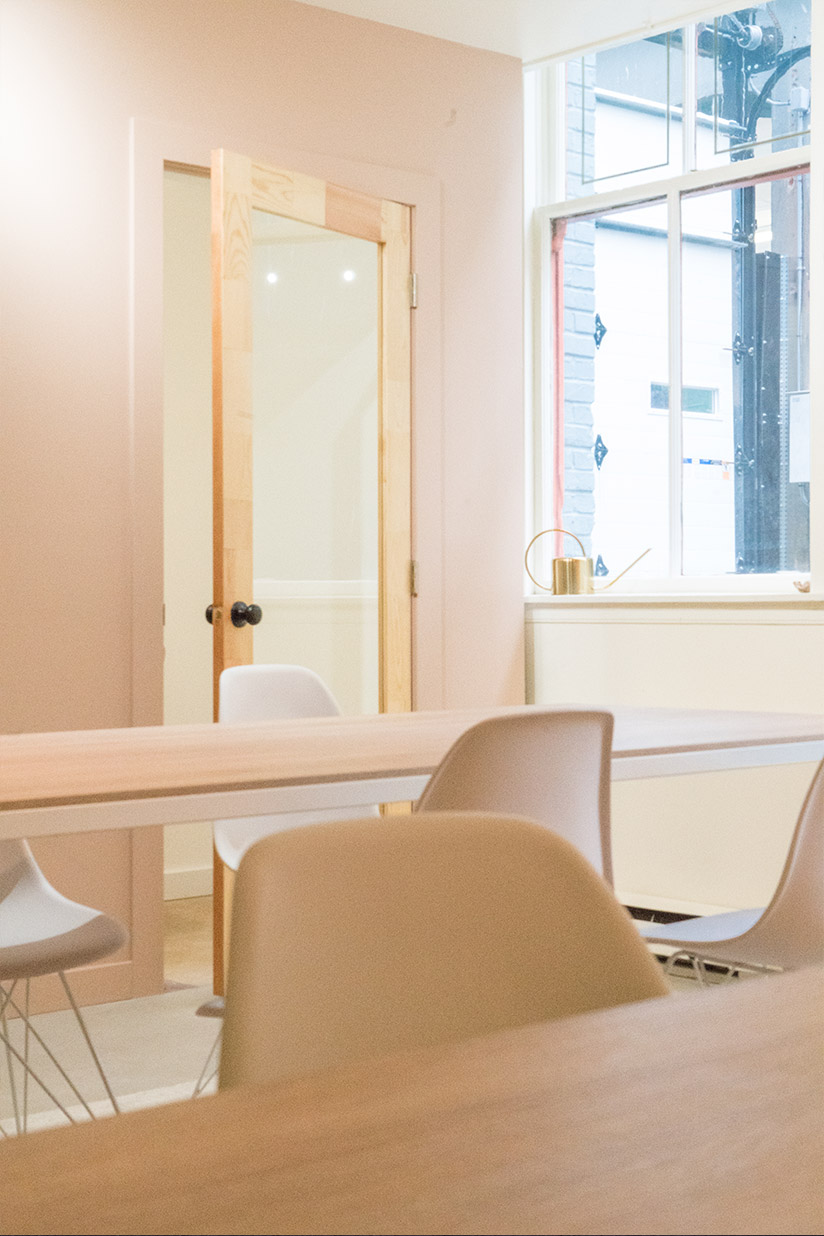
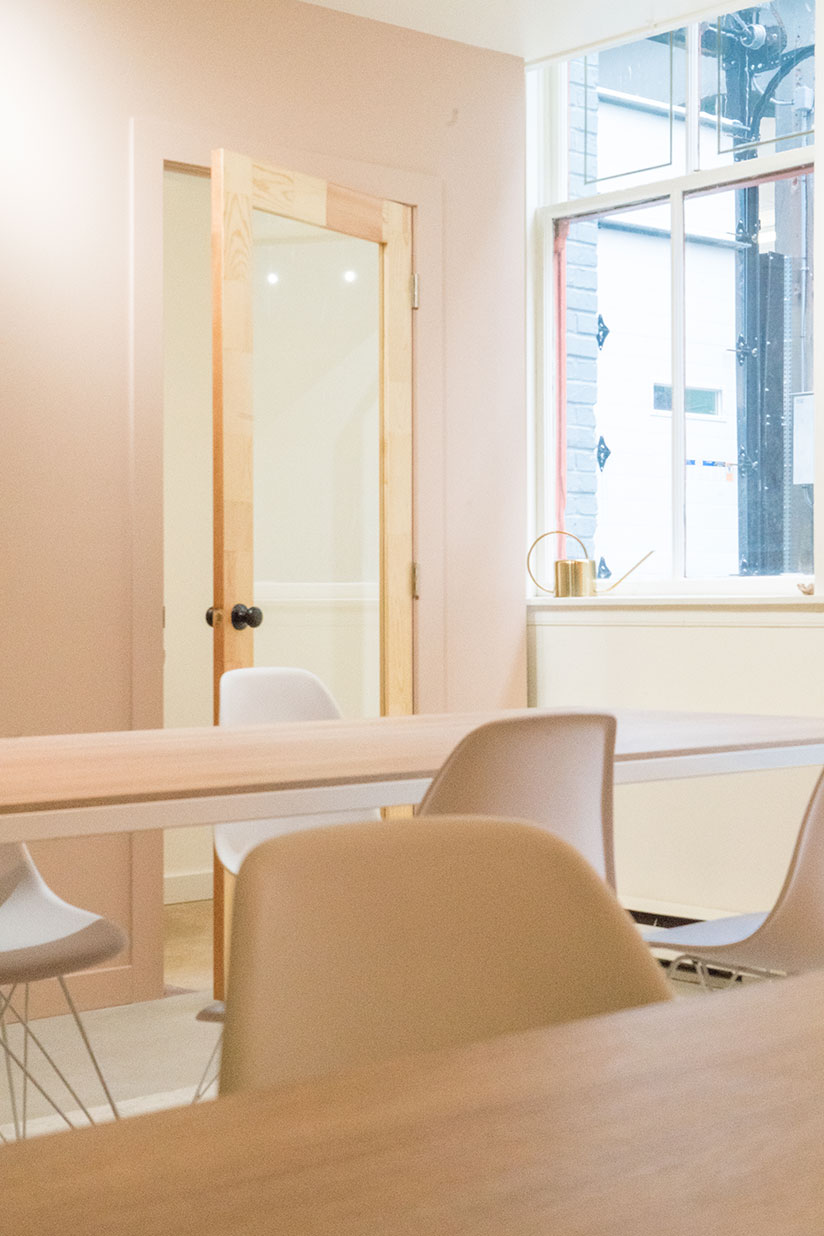
Clean up photos

diff --git a/index.html b/index.html
@@ -103,21 +103,22 @@
       <div class="faker"></div>
       <div class="images-img">
         <img src="20190113-010.jpg" alt="">
-        <p>Hot Desks</p>
+        <p class="text-right">Hot desks</p>
       </div>
       <div class="images-img">
         <img src="20190113-011.jpg" alt="">
+        <p class="text-right">Second call room</p>
       </div>
     </div>
   </section>
   <section class="images">
     <div class="container between">
       <div class="images-img">
-        <img src="20190329-007.png" alt="">
+        <img src="20190113-022.jpg" alt="">
       </div>
       <div class="images-img">
-        <img src="20190329-090.png" alt="">
-        <p class="text-right">Dedicated Desks</p>
+        <img src="20190113-021.jpg" alt="">
+        <p class="text-right">Dedicated desks</p>
       </div>
       <div class="faker"></div>
     </div>
@@ -130,7 +131,7 @@
         <p>Bring your laptop, use any of the shared seating, and get to work.</p>
       </div>
       <div class="pricing-item">
-        <span>$20190113 / MONTH</span>
+        <span>$290 / MONTH</span>
         <h6>Dedicated Desks</h6>
         <p>Pick one of the five 52” wide desks up in the loft to call your own.</p>
       </div>
@@ -147,10 +148,10 @@
   <section class="images">
     <div class="container between">
       <div class="images-img">
-        <img src="20190329-022.png" alt="">
+        <img src="20190113-018.jpg" alt="">
       </div>
       <div class="images-img">
-        <img src="20190113-023.png" alt="">
+        <img src="20190113-016.jpg" alt="">
       </div>
       <div class="faker"></div>
     </div>
@@ -159,10 +160,10 @@
     <div class="container between">
       <div class="faker"></div>
       <div class="images-img">
-        <img src="20190329-022.png" alt="">
+        <img src="20190113-019.jpg" alt="">
       </div>
       <div class="images-img">
-        <img src="20190113-335.png" alt="">
+        <img src="20190113-020.jpg" alt="">
       </div>
     </div>
   </section>
@@ -183,7 +184,7 @@
     </footer>
     <section id="yourImageElement" class="bottomguy">
       <div class="container end">
-        <img id="myImg" src="thumbsup.png" alt="">
+        <img id="myImg" src="human-thumbsup.png" alt="">
       </div>
     </section>
   <script>

diff --git a/dacss.css b/dacss.css
@@ -24,11 +24,14 @@ img {
 }
 
 .logo svg {
-    fill: #0e0e0e;
     height: 78px;
     width: inherit;
     position: fixed;
     z-index: 2;
+}
+
+.logo svg path {
+    fill: #312e2e;
 }
 
 header {
@@ -121,7 +124,7 @@ nav a:hover {
     position: absolute;
     bottom: calc(350px + 7%);
     width: calc(100% + 70px);
-    z-index: 20;
+    z-index: 1;
     left: -25px;
 }
 
@@ -385,7 +388,12 @@ nav a:hover {
     bottom: 0;
     width: 100%;
     padding: 35px 0;
-    z-index: 10;
+    z-index: 3;
+}
+
+.bottomguy img {
+    width: 64px;
+    height: 156px;
 }
 
 .end {
